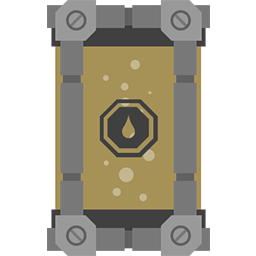
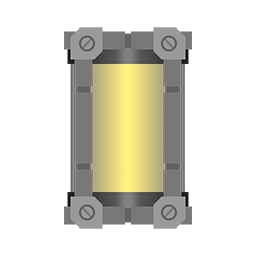
Change Fuel a little. Add new pictures.

diff --git a/core/src/com/shuttle/game/conf/PaintConstants.java b/core/src/com/shuttle/game/conf/PaintConstants.java
@@ -4,21 +4,22 @@ package com.shuttle.game.conf;
  * @author Shuttle on 8/28/18.
  * Object paint constants (PaintConstants)
  */
+//todo: уменьшить все до 128? Думаю да. Экономнее. Но в конце.
 public final class PaintConstants {
     public static final String SHUTTLE_REGION = "shuttle";
     public static final int SHUTTLE_WIDTH = 256;
     public static final int SHUTTLE_HEIGHT = 256;
-    public static final String SHUTTLE_TAKE_RANGE_FIELD_REGION = "takeRangeField384";
+    public static final String SHUTTLE_TAKE_RANGE_FIELD_REGION = "takefield384";
     public static final int SHUTTLE_TAKE_RANGE_FIELD_WIDTH = 384;
     public static final int SHUTTLE_TAKE_RANGE_FIELD_HEIGHT = 384;
     public static final float SHUTTLE_TAKE_RANGE_FIELD_MAX = 0.5f;
-    public static final String SHUTTLE_BLUR_REGION = "shuttleBlur";
+    public static final String SHUTTLE_BLUR_REGION = "shuttleblur";
     public static final int SHUTTLE_BLUR_WIDTH = 256;
     public static final int SHUTTLE_BLUR_HEIGHT = 256;
-    public static final String SHUTTLE_LIFE_SHIELD = "lifeShield";
+    public static final String SHUTTLE_LIFE_SHIELD = "lifeshield";
     public static final int SHUTTLE_LIFE_SHIELD_WIDTH = 256;
     public static final int SHUTTLE_LIFE_SHIELD_HEIGHT = 256;
-    public static final String SHUTTLE_RAM_SHIELD = "ramShield";
+    public static final String SHUTTLE_RAM_SHIELD = "ramshield";
     public static final int SHUTTLE_RAM_SHIELD_WIDTH = 256;
     public static final int SHUTTLE_RAM_SHIELD_HEIGHT = 256;
     public static final String SHUTTLE_SCRATCH = "scratch";
@@ -43,19 +44,19 @@ public final class PaintConstants {
     public static final String ANOMALY_GLOW = "glow";
     public static final int ANOMALY_GLOW_WIDTH = 96;
     public static final int ANOMALY_GLOW_HEIGHT = 96;
-    public static final String ASTEROID_METAL_REGION = "asteroidMetal";
+    public static final String ASTEROID_METAL_REGION = "asteroidmetal";
     public static final int ASTEROID_METAL_WIDTH = 128;
     public static final int ASTEROID_METAL_HEIGHT = 128;
-    public static final String ASTEROID_MINERAL_REGION = "asteroidMineral";
+    public static final String ASTEROID_MINERAL_REGION = "asteroidmineral";
     public static final int ASTEROID_MINERAL_WIDTH = 128;
     public static final int ASTEROID_MINERAL_HEIGHT = 128;
-    public static final String BLACKHOLE_HOLE_REGION = "blackholeHole";
+    public static final String BLACKHOLE_HOLE_REGION = "blackholehole";
     public static int BLACKHOLE_HOLE_WIDTH = 192;
     public static int BLACKHOLE_HOLE_HEIGHT = 192;
     public static final float BLACKHOLE_HOLE_OSCILLATOR_MIN = 0.8f;
     public static final float BLACKHOLE_HOLE_OSCILLATOR_MAX = 1.0f;
     public static final float BLACKHOLE_OSCILLATION_FREQUENCY = 0.1f;
-    public static final String BLACKHOLE_SPIRAL_REGION = "blackholeSpiral";
+    public static final String BLACKHOLE_SPIRAL_REGION = "blackholespiral";
     public static int BLACKHOLE_SPIRAL_WIDTH = 256;
     public static int BLACKHOLE_SPIRAL_HEIGHT = 256;
     public static final float BLACKHOLE_SPIRAL_OSCILLATOR_MIN = 0.9f;
@@ -77,17 +78,16 @@ public final class PaintConstants {
     public static final String CRATE_1_REGION = "crate1";
     public static final int CRATE_1_WIDTH = 128;
     public static final int CRATE_1_HEIGHT = 128;
-    public static final String CRATE_2_REGION = "crate2";
-    public static final int CRATE_2_WIDTH = 128;
-    public static final int CRATE_2_HEIGHT = 128;
     public static final String STORAGE_1_REGION = "storage1";
-    public static final int STORAGE_1_WIDTH = 160;
-    public static final int STORAGE_1_HEIGHT = 160;
-    public static final String FUEL_1_REGION = "fuel2";
-    public static final String FUEL_2_REGION = "fuel3";
-    public static final int FUEL_1_WIDTH = 160;
-    public static final int FUEL_1_HEIGHT = 160;
-    public static final String FUEL_BUBBLE_REGION = "bubble";
+    public static final int STORAGE_1_WIDTH = 256;
+    public static final int STORAGE_1_HEIGHT = 256;
+    public static final String FUEL_1_REGION = "fuel1";
+    public static final int FUEL_1_WIDTH = 192;
+    public static final int FUEL_1_HEIGHT = 192;
+    public static final String FUEL_BACK_REGION = "fuelback";
+    public static final int FUEL_BACK_WIDTH = 192;
+    public static final int FUEL_BACK_HEIGHT = 192;
+    public static final String FUEL_BUBBLE_REGION = "bubble16";
     public static final int FUEL_BUBBLE_WIDTH = 16;
     public static final int FUEL_BUBBLE_HEIGHT = 16;
     public static final String STAR16_REGION = "star16";
@@ -113,6 +113,29 @@ public final class PaintConstants {
     public static final int POINTER_WIDTH = 48;
     public static final int POINTER_HEIGHT = 48;
     public static final float POINTER_BLINK_FREQUENCY = 0.3f;
+    public static final String PATTERNSIGN_LABEL_2_REGION = "patternsign";
+    public static final String SHABBY_SIGN_LABEL_2_REGION = "shabbysign";
+    public static final String BOOST_LABEL_1_REGION = "boostv1";
+    public static final String BOOST_LABEL_2_REGION = "boostv2";
+    public static final String BOX_SHIELD_LABEL_1_REGION = "boxshieldv1";
+    public static final String BOX_SHIELD_LABEL_2_REGION = "boxshieldv2";
+    public static final String BOX_SHIELD_LABEL_3_REGION = "boxshieldv3";
+    public static final String REPAIR_LABEL_1_REGION = "repairdv1";
+    public static final String REPAIR_LABEL_2_REGION = "repairdv2";
+    public static final String FUEL_LABEL_1_REGION = "fuelv1";
+    public static final String FUEL_LABEL_2_REGION = "fuelv2";
+    public static final String LASER_LABEL_1_REGION = "laserv1";
+    public static final String LASER_LABEL_2_REGION = "laserv2";
+    public static final String RADAR_LABEL_1_REGION = "radarv1";
+    public static final String RADAR_LABEL_2_REGION = "radarv2";
+    public static final String ROCKET_LAUNCHER_LABEL_1_REGION = "rocketlauncherv1";
+    public static final String ROCKET_LAUNCHER_LABEL_2_REGION = "rocketlauncherv2";
+    public static final String SCAN_LABEL_1_REGION = "scanv1";
+    public static final String SCAN_LABEL_2_REGION = "scanv2";
+    public static final String SCAN_LABEL_3_REGION = "scanv3";
+    public static final String SPLASH_LABEL_1_REGION = "splashv1";
+    public static final String TRASH_LABEL_1_REGION = "trashv1";
+
     public static final String SKIN_FILE = "uiskin/gameSkin.json";
     public static final String FONT32 = "fonts/gomarice32.ttf";
     public static final String FONT32_C = "fonts/gomarice32Coloured.ttf";

diff --git a/core/src/com/shuttle/game/bot/consumable/fuel/Bubble.java b/core/src/com/shuttle/game/bot/consumable/fuel/Bubble.java
@@ -12,6 +12,11 @@ import lombok.Getter;
 import lombok.Setter;
 
 public class Bubble {
+    //0.27f(отношение левой/правой полосы к размеру текстуры)
+    //0.156f(отношение верхней/нижней полосы к размеру текстуры)
+    private static float A = 0.27f;
+    private static float B = 0.156f;
+
     private TextureRegion texture;
     private Fuel fuel;
     private int width, height;
@@ -29,24 +34,22 @@ public class Bubble {
         this.position = new Vector2();
         this.velocity = new Vector2();
     }
-    //todo: нужно подумать над тем стоит ли выносить в константы:
-    //todo: 0.27f(отношение левой/правой полосы к размеру текстуры)
-    //todo: 0.156f(отношение верхней/нижней полосы к размеру текстуры)
-    public void init(float x, float y){
-        position.set(MathUtils.random(0, fuel.getWidth()- fuel.getWidth() * 0.27f * 2 - width), MathUtils.random(0, fuel.getHeight() - fuel.getHeight() * 0.156f * 2 - height));
-        scaleX = scaleY = MathUtils.random(0.1f, 0.6f);
+
+    public void init(float x, float y) {
+        position.set(MathUtils.random(0, x - x * A * 2 - width), MathUtils.random(0, y - y * B * 2 - height));
+        scaleX = scaleY = MathUtils.random(0.5f, 1.0f);
         velocity.set(0, MathUtils.random(5, 25));
     }
 
-    public void update(float dt){
+    public void update(float dt) {
         position.mulAdd(velocity, dt);
-        if (position.y + height > fuel.getHeight() - fuel.getHeight() * 0.156f * 2){
-            position.y = fuel.getHeight() - height - fuel.getHeight() * 0.156f * 2;
-            velocity.set(velocity.x, velocity.y * -1);
+        if (position.y + height > fuel.getHeight() - fuel.getHeight() * B * 2) {
+            position.y = fuel.getHeight() - height - fuel.getHeight() * B * 2;
+            velocity.set(velocity.x, -velocity.y);
         }
         if (position.y < 0) {
             position.y = 0;
-            velocity.set(velocity.x, velocity.y * -1);
+            velocity.set(velocity.x, -velocity.y);
         }
     }
 
@@ -54,10 +57,10 @@ public class Bubble {
         Color tmpColor = batch.getColor();
         batch.setColor(fuel.getColor());
         batch.draw(texture,
-                fuel.getPosition().x - fuel.getWidth()/2 + fuel.getWidth() * 0.27f + position.x, fuel.getPosition().y - fuel.getHeight()/2 + fuel.getHeight() * 0.156f + position.y,
-                fuel.getWidth()/2 - fuel.getWidth() * 0.27f - position.x , fuel.getHeight()/2 - fuel.getHeight() * 0.156f - position.y,
+                fuel.getPosition().x - fuel.getWidth() / 2 + fuel.getWidth() * A + position.x, fuel.getPosition().y - fuel.getHeight() / 2 + fuel.getHeight() * B + position.y,
+                fuel.getWidth() / 2 - fuel.getWidth() * A - position.x, fuel.getHeight() / 2 - fuel.getHeight() * B - position.y,
                 width, height,
-                fuel.getScaleX()* scaleX, fuel.getScaleY()* scaleY,
+                fuel.getScaleX() * scaleX, fuel.getScaleY() * scaleY,
                 fuel.getAngle()
         );
         batch.setColor(tmpColor);

diff --git a/core/src/com/shuttle/game/bot/consumable/Crate.java b/core/src/com/shuttle/game/bot/consumable/Crate.java
@@ -23,9 +23,9 @@ import java.util.List;
 public class Crate extends AbstractConsumable {
     public Crate(GameScreen gs) {
         super(gs);
-        this.texture = Assets.getInstance().getAtlas().findRegion(PaintConstants.CRATE_2_REGION);
-        this.width = PaintConstants.CRATE_2_WIDTH;
-        this.height = PaintConstants.CRATE_2_HEIGHT;
+        this.texture = Assets.getInstance().getAtlas().findRegion(PaintConstants.CRATE_1_REGION);
+        this.width = PaintConstants.CRATE_1_WIDTH;
+        this.height = PaintConstants.CRATE_1_HEIGHT;
         this.type = Type.CRATE;
         this.moveProcessor = new MoveProcessor(gs);
     }

diff --git a/core/src/com/shuttle/game/bot/consumable/fuel/Substrate.java b/core/src/com/shuttle/game/bot/consumable/fuel/Substrate.java
@@ -13,9 +13,9 @@ public class Substrate {
 
     public Substrate(Fuel fuel) {
         this.fuel = fuel;
-        this.texture = Assets.getInstance().getAtlas().findRegion(PaintConstants.FUEL_1_REGION);
-        this.width = PaintConstants.FUEL_1_WIDTH;
-        this.height = PaintConstants.FUEL_1_HEIGHT;
+        this.texture = Assets.getInstance().getAtlas().findRegion(PaintConstants.FUEL_BACK_REGION);
+        this.width = PaintConstants.FUEL_BACK_WIDTH;
+        this.height = PaintConstants.FUEL_BACK_HEIGHT;
     }
 
 

diff --git a/core/src/com/shuttle/game/bot/consumable/fuel/Box.java b/core/src/com/shuttle/game/bot/consumable/fuel/Box.java
@@ -13,7 +13,7 @@ public class Box {
 
     public Box(Fuel fuel) {
         this.fuel = fuel;
-        this.texture = Assets.getInstance().getAtlas().findRegion(PaintConstants.FUEL_2_REGION);
+        this.texture = Assets.getInstance().getAtlas().findRegion(PaintConstants.FUEL_1_REGION);
         this.width = PaintConstants.FUEL_1_WIDTH;
         this.height = PaintConstants.FUEL_1_HEIGHT;
     }

diff --git a/core/src/com/shuttle/game/bot/consumable/fuel/Fuel.java b/core/src/com/shuttle/game/bot/consumable/fuel/Fuel.java
@@ -46,7 +46,7 @@ public class Fuel extends AbstractConsumable {
         this.spiralRadius = MathUtils.random(20, 60);
         this.atRayPoint = false;
         for (int i = 0; i < 10; i++) {
-            this.bubble[i].init(x, y);
+            this.bubble[i].init(width, height);
         }
 
     }
